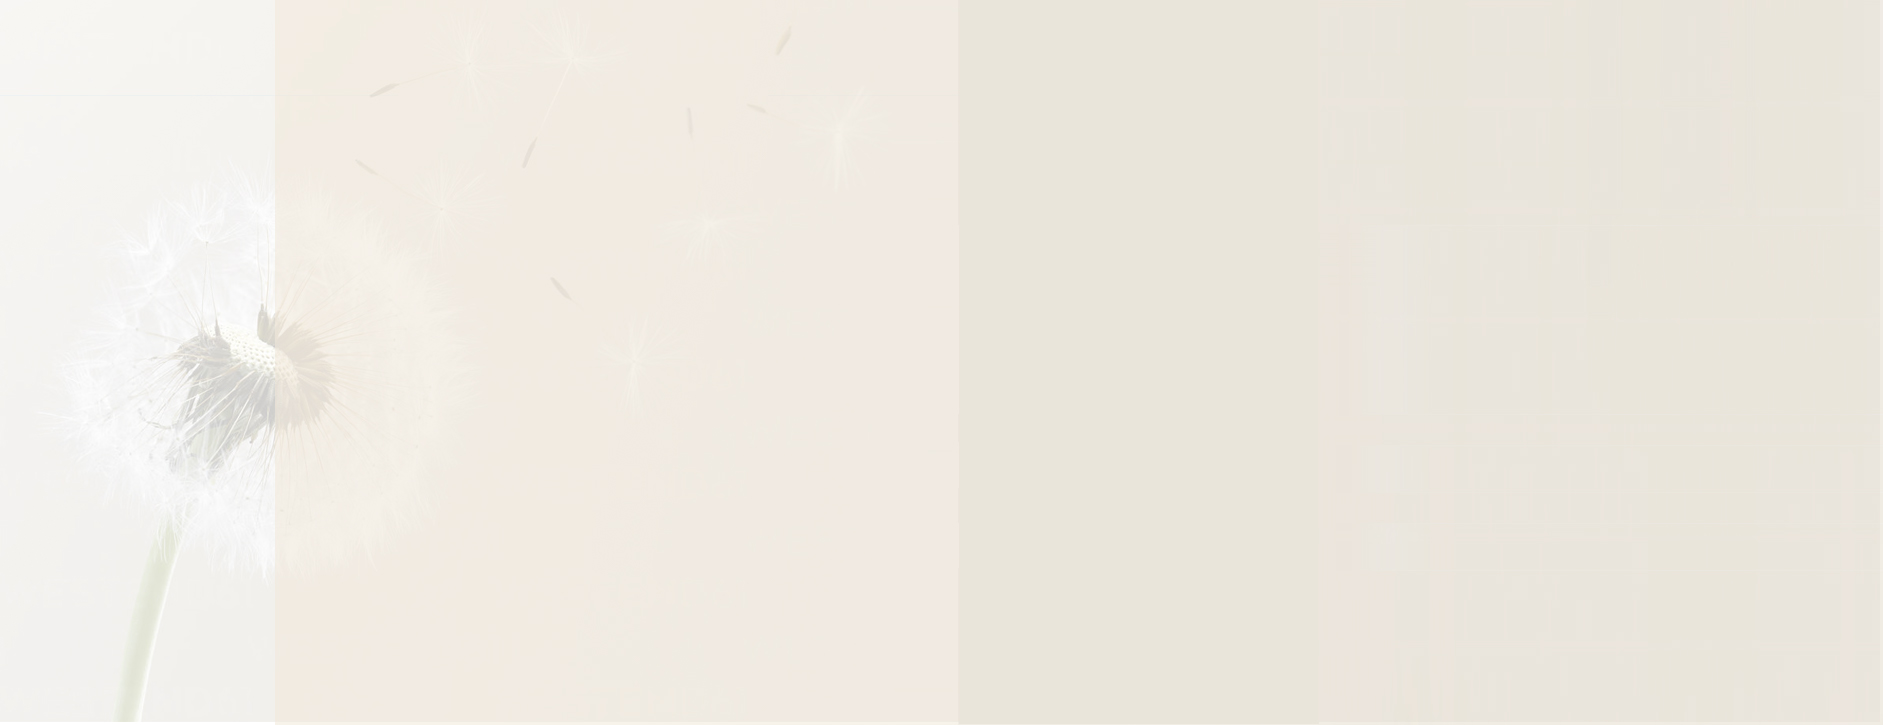
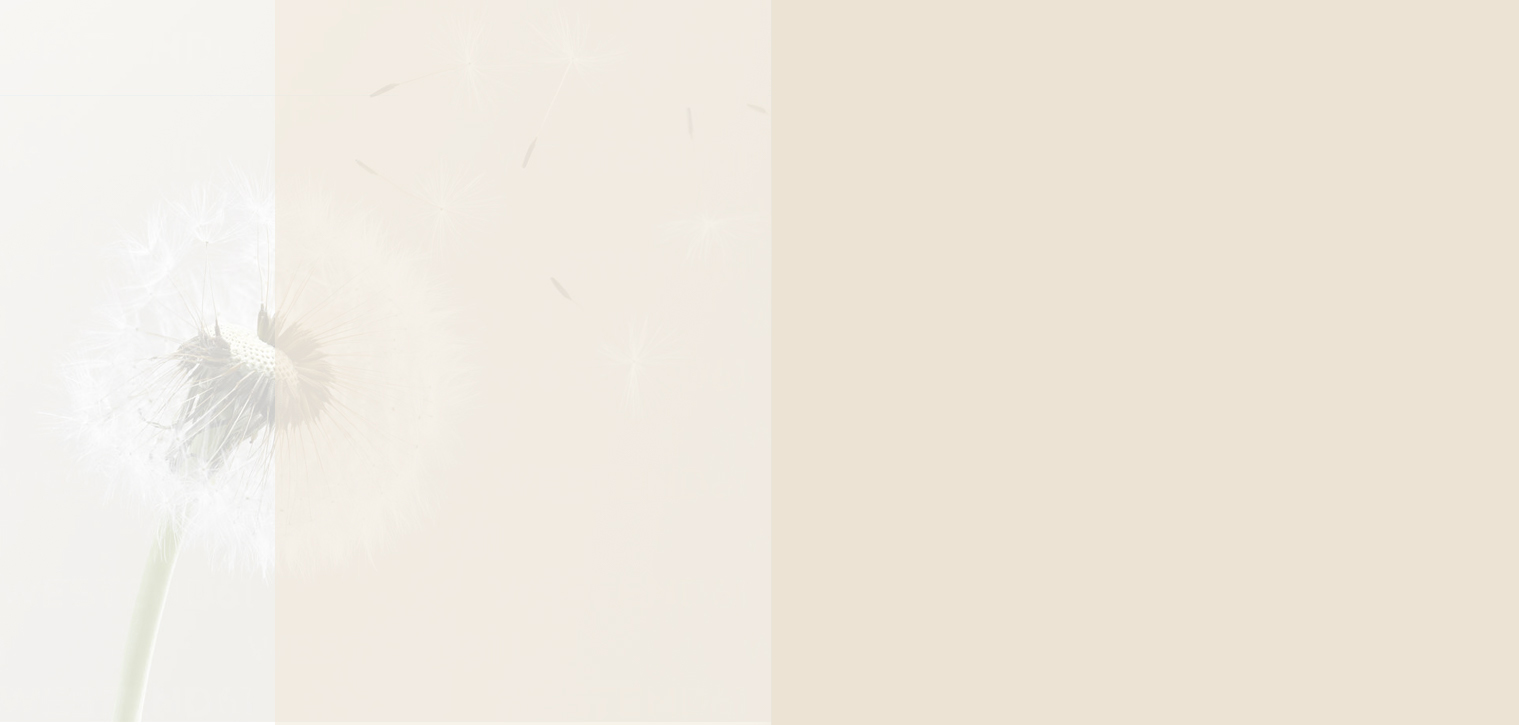
Fixed footer and started in getintouch section

Changed region(s): [[0.0928, 0.4248, 0.1856, 0.6372]]

diff --git a/src/Components/Footer.jsx b/src/Components/Footer.jsx
@@ -1,4 +1,4 @@
-import Image from '/src/assets/footer2.jpg'
+import Image from '/src/assets/footer3.jpg'
 import Logo from '/src/assets/Logooooo.png'
 import Logoo from '/src/assets/in2infoLogo.png'
 import { Link } from 'react-router-dom'
@@ -6,7 +6,7 @@ import services from '/src/Db/ServicesDb.js';
 
 const Footer = () => {
   return (
-    <div className="bg-footer-backgroud w-full h-auto  flex flex-col md:flex-row px-8 text-primary  md:py-0">
+    <div className="bg-footer-backgroud border-y-2 border-primary w-full h-auto p-8 pr-0 bg-[#ECE3D4] flex flex-col md:flex-row  text-primary  md:py-0">
       <div className="w-full md:w-1/2 h-full flex flex-col items-start justify-between p-2 pt-4">
         <div className="flex flex-col gap-6 md:gap-9">
           <img src={Logo} className="h-[60px] self-start" alt="Logo" />
@@ -44,7 +44,7 @@ const Footer = () => {
         </div>
       </div>
       <div className="hidden md:block w-1/2 h-full">
-        <img src={Image} className="w-full h-[470px] object-cover" alt="Footer" />
+        <img src={Image} className="w-full h-[460px] object-cover" alt="Footer" />
       </div>
     </div>
   )

diff --git a/src/Pages/Home/Contactus.jsx b/src/Pages/Home/Contactus.jsx
@@ -1,7 +1,7 @@
 
 const Contactus = () => {
   return (
-    <div className="bg-red-500 h-screen flex items-center justify-center text-white font-bold">
+    <div className="bg-getintouch-background bg-cover bg-center bg-no-repeat   h-screen">
       Contactus
     </div>
   )
